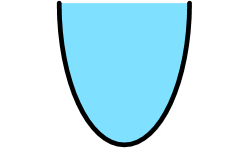
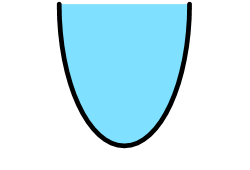
Added borders around stimuli

Changed region(s): [[0.224, 0.1761, 0.784, 0.9308], [0.224, 0.0, 0.784, 0.0252]]

diff --git a/experimentCode/css/style.css b/experimentCode/css/style.css
@@ -5,6 +5,8 @@
 .column {
   float: left;
   padding: 5px;
+  border: 2px solid #555;
+  background: white;
 }
 
 .row::after {
@@ -13,18 +15,19 @@
   display: table;
 }
 
-/* #container {width:400px; overflow:hidden;}
-div {float:left; display:inline; margin:15px;} */
 .shift {
-  margin-left: 110px;
+  margin-left: 132px;
   float: left;
   padding: 5px;
+  border: 2px solid #555;
+  background: white;
 }
 
 .background {
   position: relative;
   width: 250px;
-  height: 200px;
+  height: 177px;
+  border: 2px solid #555;
 }
 
 .layer {

diff --git a/experimentCode/experiment/experiment.js b/experimentCode/experiment/experiment.js
@@ -1,5 +1,5 @@
 /* participant based variables */
-var displayCondition = 'separated' // integrated or separated
+var displayCondition = 'integrated' // integrated or separated
 
 /* category learning variables */
 var nUniqueStimuli = 4
